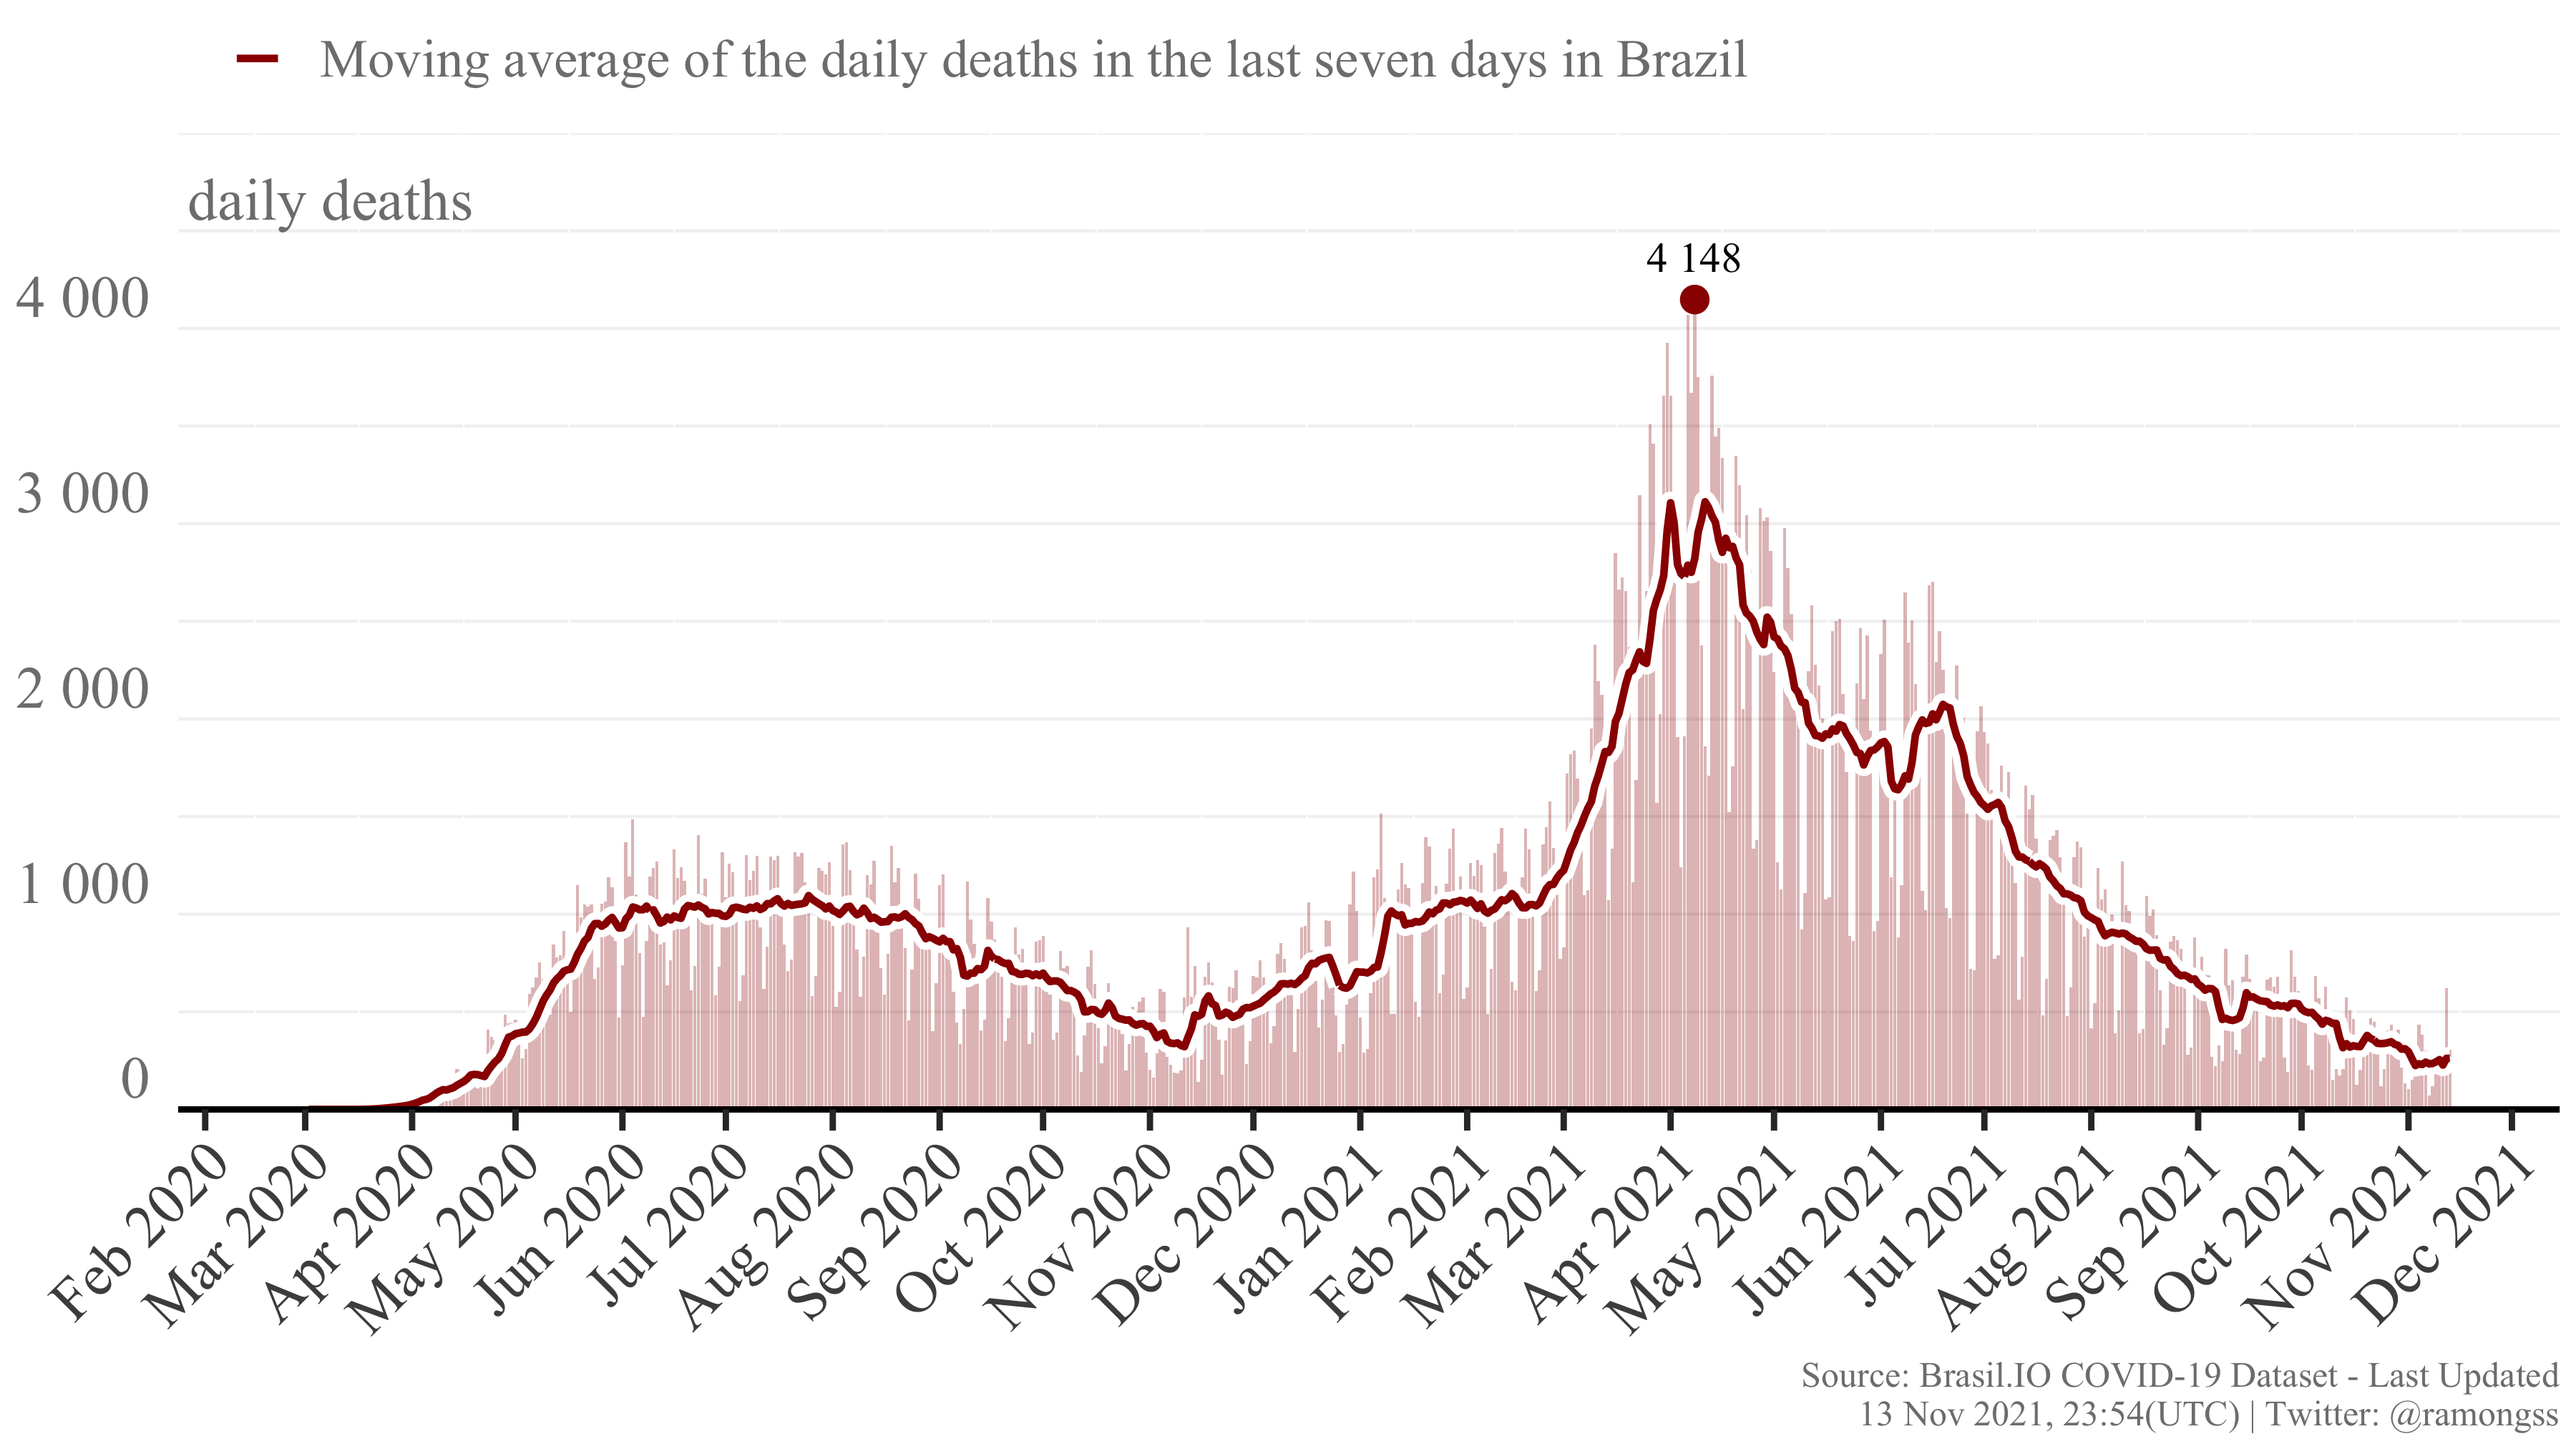
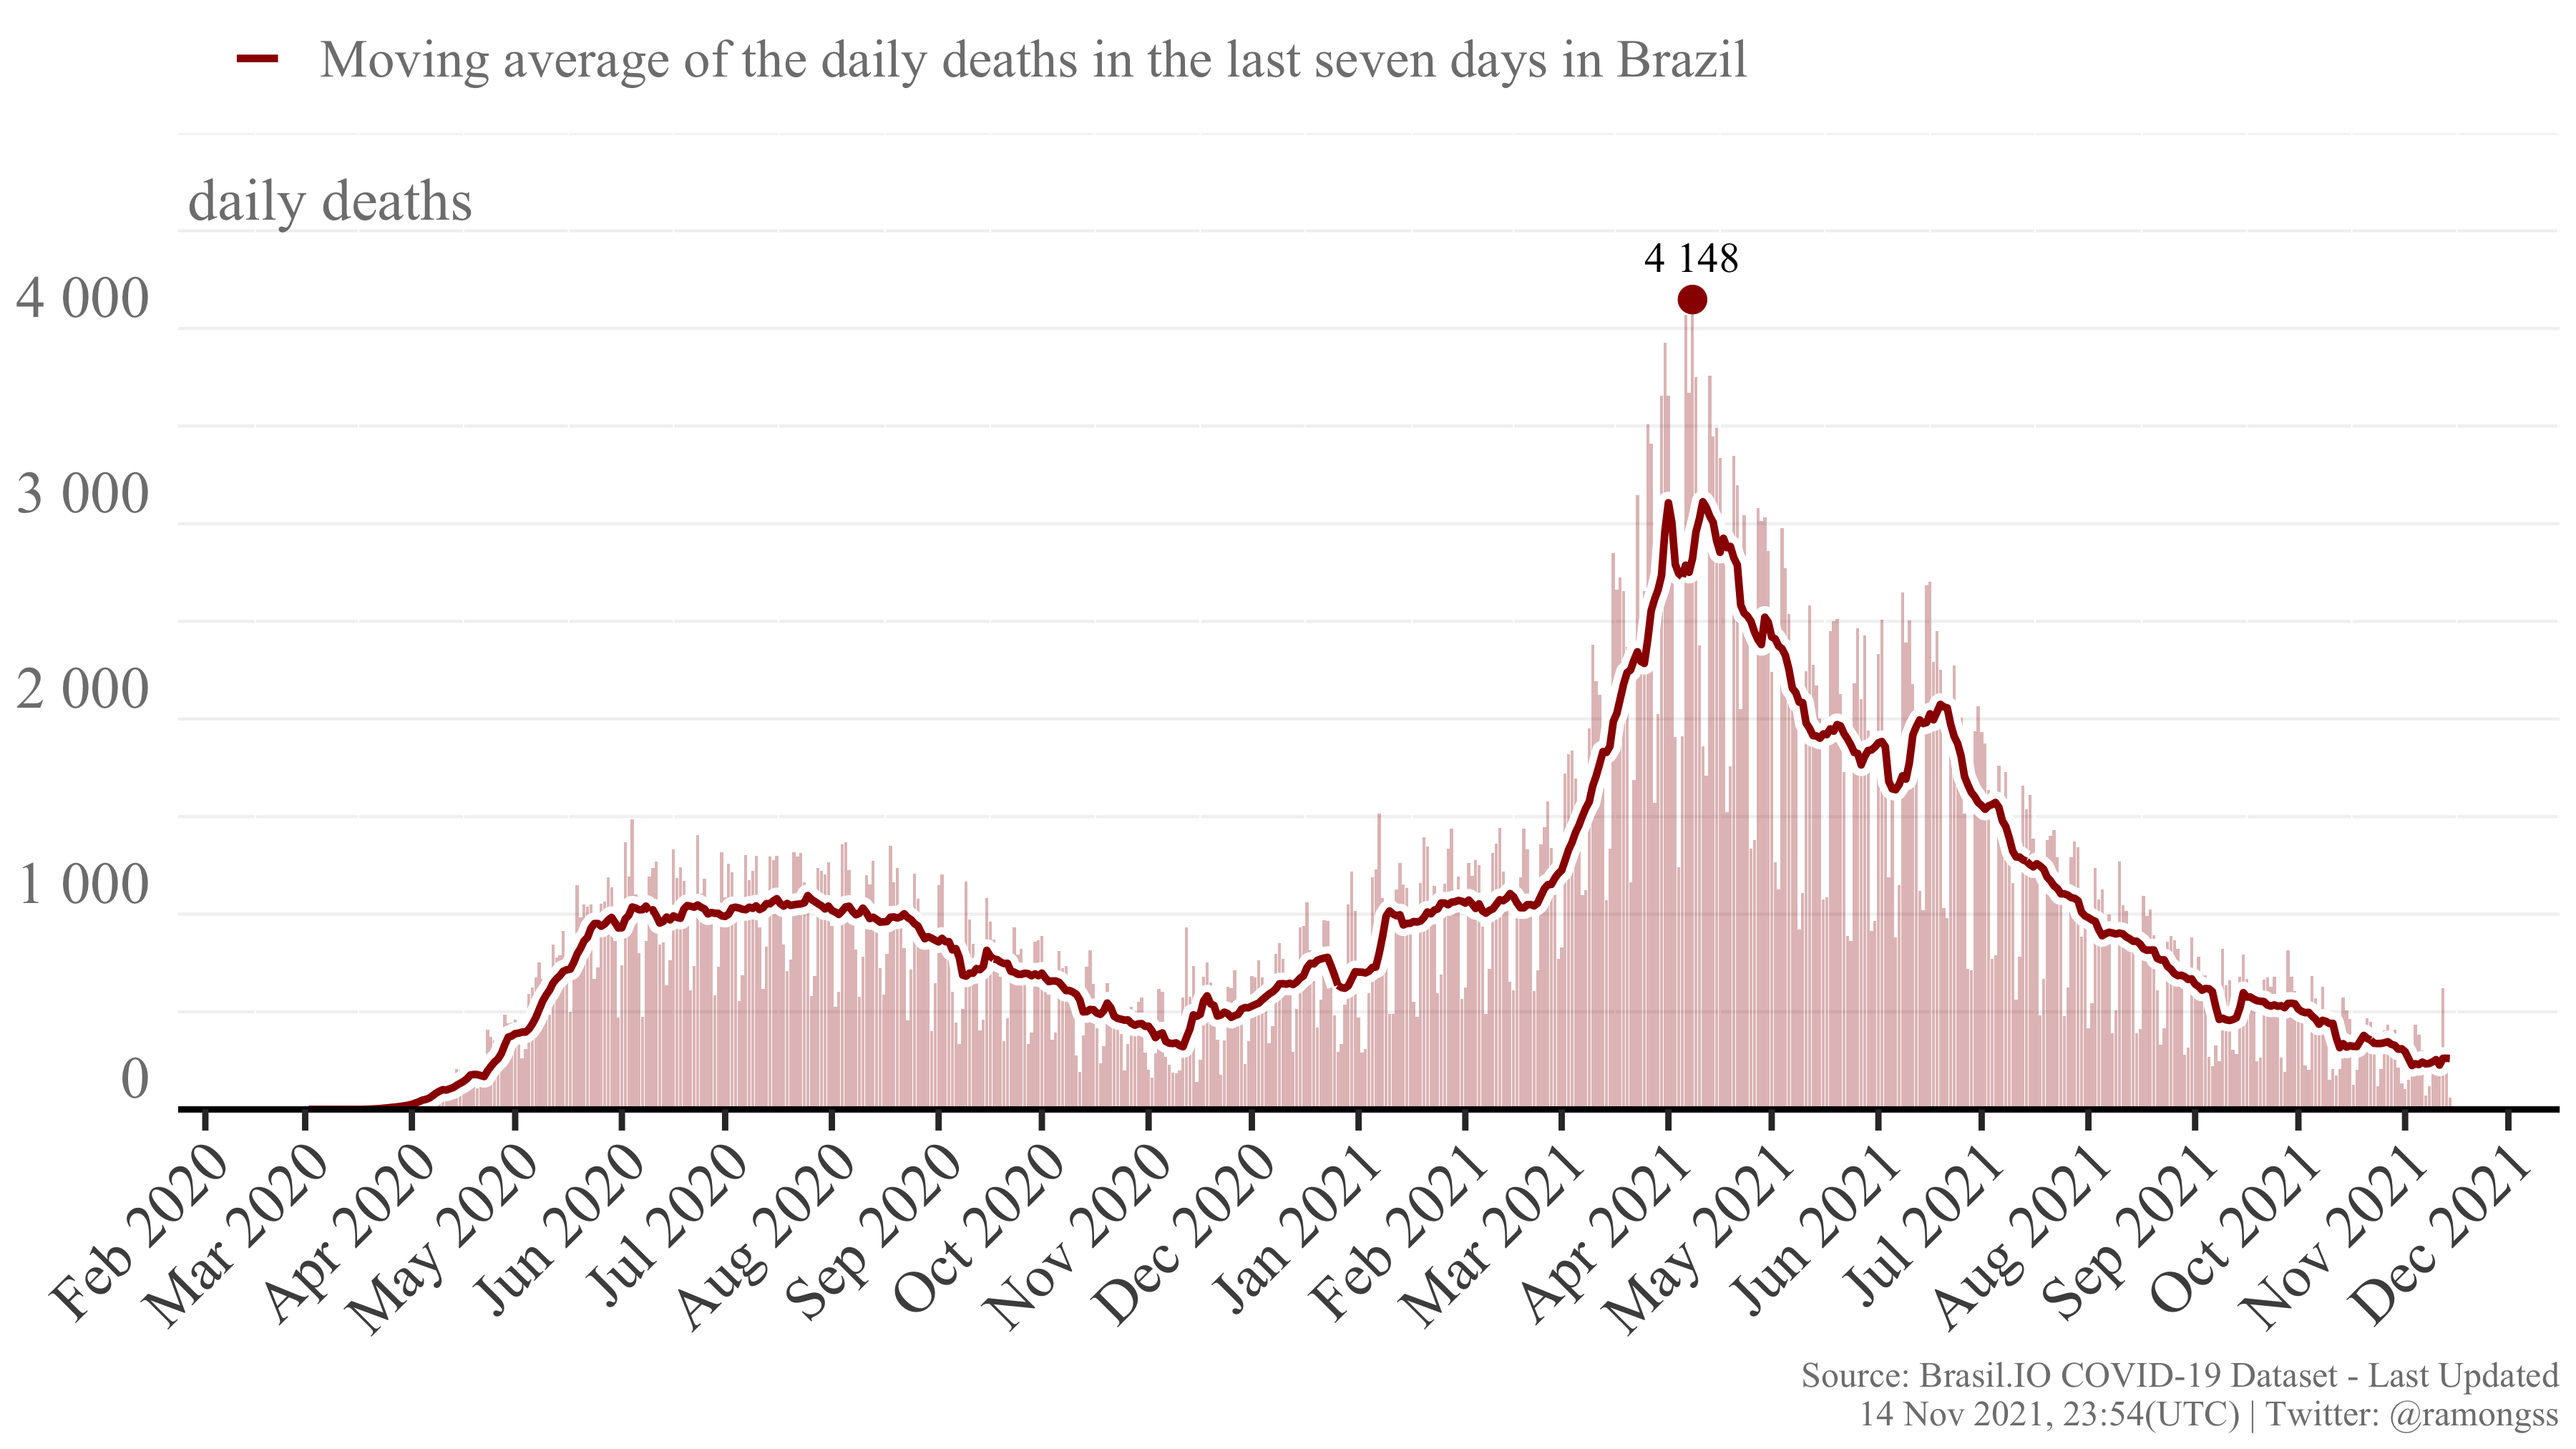
Re-build README.Rmd

diff --git a/README.md b/README.md
@@ -27,8 +27,8 @@ download_brasilio_table <- function(dataset = "covid19", table_name){
 
 ## COVID-19 Confirmed cases
 
-Currently, Brazil has a total of **21,957,501** confirmed cases at **13
-Nov, 2021**, with **9,135** new confirmed cases. The daily maximum
+Currently, Brazil has a total of **21,961,754** confirmed cases at **14
+Nov, 2021**, with **4,043** new confirmed cases. The daily maximum
 incidence was **124,878** confirmed cases at **18 Sep, 2021**. Here
 follows the Figure showing the confirmed case incidence as the bars, and
 the line as the moving average of the last 7 days.
@@ -37,11 +37,11 @@ the line as the moving average of the last 7 days.
 
 ## COVID-19 Deaths
 
-Currently, Brazil has a total of **611,479** deaths at **13 Nov, 2021**,
-with **305** new deaths. The daily maximum deaths incidence was
-**4,148** deaths at **08 Apr, 2021**. Here follows the Figure showing
-the deaths incidence as the bars, and the line as the moving average of
-the last 7 days.
+Currently, Brazil has a total of **611,542** deaths at **14 Nov, 2021**,
+with **62** new deaths. The daily maximum deaths incidence was **4,148**
+deaths at **08 Apr, 2021**. Here follows the Figure showing the deaths
+incidence as the bars, and the line as the moving average of the last 7
+days.
 
 ![COVID-19 Deaths](figures/deaths.png)
 
@@ -49,4 +49,4 @@ the last 7 days.
 
 This page is daily updated automatically using Github Actions.
 
-*Last update: 13 Nov 2021, 23:54 (UTC).*
+*Last update: 14 Nov 2021, 23:54 (UTC).*
